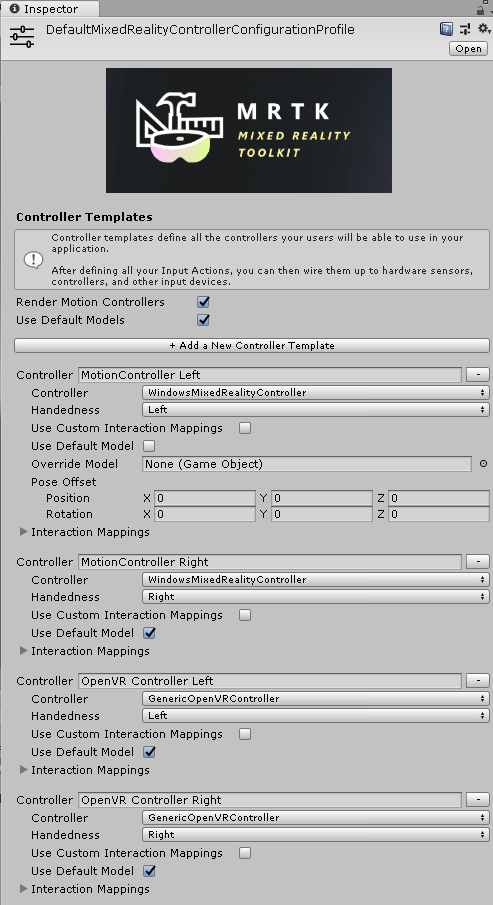
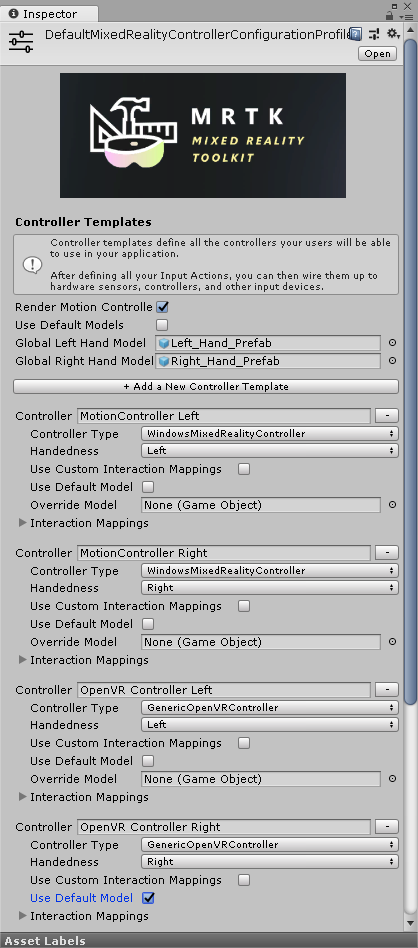
Updated documentation following removal of Pose offsets

diff --git a/Assets/MixedRealityToolkit-SDK/Profiles/MixedRealityControllerConfigurationProfile.md b/Assets/MixedRealityToolkit-SDK/Profiles/MixedRealityControllerConfigurationProfile.md
@@ -24,9 +24,9 @@ This option will use the models for the controller direct from the SDK (where av
 ### Global Left / Right hand models
 These allow you at the top level to define the default model that will be drawn for each controlling hand.  If no hand is available, the Left most model will be used by default.
 
-Additionally, you can provide position and rotational offsets to affect how the model is drawn, to more accurately represent how you want the model drawn based on the controllers position given by the SDK.
+To alter the position and rotation of the displayed model in relation to the Controller pose, then update the controllers Model Prefab transform values.
 
-> See the "Example Models" section below for the controller models and their offsets provided in the SDK's "**Standard Assets**" folder.
+> See the "Example Models" section below for the controller models and their recommended transform settings provided in the SDK's "**Standard Assets**" folder.
 
 ### Add a New Controller Template
 
@@ -74,7 +74,7 @@ For this controller only, use the model for the controller direct from the SDK (
 > This overrides the Global Model setting
 
 ### Override Model
-Like the Global Model options, allows you to provide a model to be drawn for this specific controller, including the same offset position and rotation options.
+Like the Global Model options, allows you to provide a model to be drawn for this specific controller.
 > This overrides the Global Model setting
 
 ### Interaction Mappings
@@ -102,21 +102,21 @@ The models provided in the Mixed Reality Toolkit "Standard Assets" folder are as
 ### Oculus Hands (provided via the Oculus Opensource project)
 Oculus provide two basic hand models, including animation (although not available through the visualizer currently).  
 
-We recommend applying the following Offsets when using to align with the users view:
+We recommend applying the following Prefab transform values to align the controller model with the users view:
 * Position - no change
-* Rotation - X 0, Y 0 , Z 0.707 (left) -0.707 (right), W 1
+* Rotation - X 0, Y 0 , Z 90 (left) -90 (right)
 
 ### Oculus Rift touch controllers (provided via the Oculus Opensource project)
 Oculus also provide animated controller models for their touch controllers.
 
-We recommend applying the following Offsets when using to align with the users view:
+We recommend applying the following Prefab transform values to align the controller model when using to align with the users view:
 * Position - no change
 * Rotation - no change
 
 ### HTC Vive wand controllers (available in the SteamVR SDK)
 Steam provide basic models for the HTC Vive Wand controllers.
 
-If you use Steams Models, we recommend applying the following Offsets when using to align with the users view:
+If you use Steams Models, we recommend applying the following Prefab transform values to align the controller model when using to align with the users view:
 * Position - no change
 * Rotation - no change
 
@@ -124,7 +124,6 @@ If you use Steams Models, we recommend applying the following Offsets when using
 The Mixed Reality Toolkit provides a set of basic Gizmo style controllers, used to help align your models to the controller position output by the SDK, to help with offset settings.
 > Note, the ability to display BOTH the Gizmo and the controller models isn't supported as yet. This will be included in a future release.
 
-
-We recommend applying the following Offsets when using to align with the users view:
+We recommend applying the following Prefab transform values to align the controller model when using to align with the users view:
 * Position - no change
-* Rotation - no change
+* Rotation - X 90 (left) -90 (right), Y 0 , Z 0
